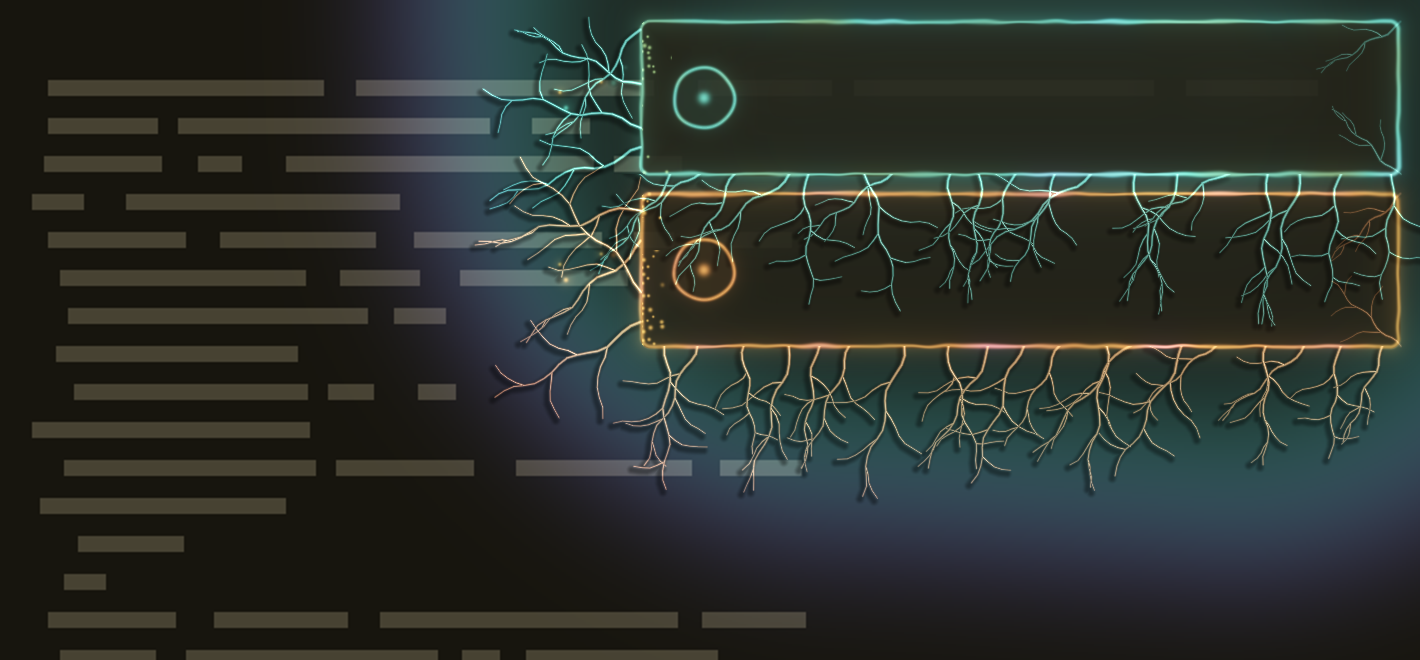
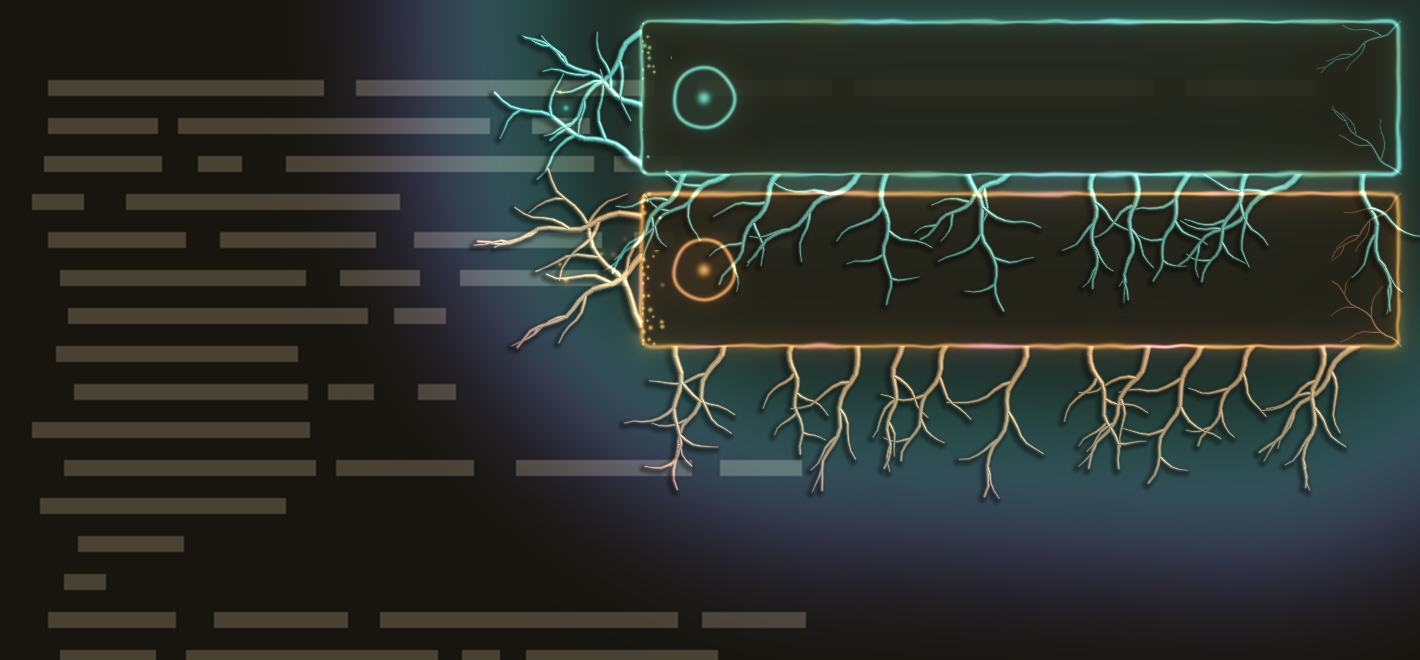
Growth: roots twice as thick, and fewer of them
Radius about 1.65 to 1.85 px at the base (was 0.8 to 0.9), tapering to 45%; the faint veins inside the card keep their thin radius so they
do not run over the text. One root per 24 px of the card's height on the left (was 18) and per 28 px of its width below (was 20), to make
room. The shadow's offset follows the radius. Render only.

Claude-Session: https://claude.ai/code/session_01RawmEkvnbUV4A7X3Nfo38z

Changed region(s): [[0.3408, 0.0303, 1.0, 0.7576]]

diff --git a/docs/design/README.md b/docs/design/README.md
@@ -93,8 +93,10 @@ mock-up C, whose wavy outline and ragged strip read as glitches:
   settled on a trunk of 65% exponential (rate 3.5) and 35% gentle ease-out, with shoots starting from 16% of the life in steps of 16% and
   a more linear ease (power 1.5): gains of 34, 25, 13, 11, 8, 6 and 2 points per second (cumulative 34, 59, 72, 83, 91, 97 and 100).
   Fainter veins grow across the card from its right corners.
-  **Roots as lit 3D tubes** (after 0.5.0, `growth-roots-3d.png`): each segment is a round tube with a soft edge, a little thicker than the
-  first lines (radius about 0.8 to 0.9 px at the base, tapering to about half), shaded as a cylinder lit from the top right (the
+  **Roots as lit 3D tubes** (after 0.5.0, `growth-roots-3d.png`): each segment is a round tube with a soft edge, about twice as thick as the
+  first lines (radius about 1.65 to 1.85 px at the base, tapering to 45% of that; the faint veins inside the card stay thin, so they
+  do not run over the text), and thinned out to make room (about one root per 24 px of the card's height on the left, one per 28 px of
+  its width below), shaded as a cylinder lit from the top right (the
   direction of the card's own light): a diffuse term, a soft specular highlight and a darker side away from the light, and a soft
   shadow they cast down and to the left (a little alpha, the only part that darkens; the roots inside the card cast none).
 - **No countdown line** (removed after 0.5.0, at the user's request): the roots grow over the toast's whole life and are the timer.

diff --git a/AGENTS.md b/AGENTS.md
@@ -312,7 +312,7 @@ uniform-parity contract); `curve()` is replaced by `tube()` (a round tube with a
 specular, and a shadow offset down-left), `over()` and `shoot()`; `vein()` returns `vec4(cover, diffuse, specular, shadow)`; the output now
 has **alpha > 0 for the shadow only** (premultiplied: light in rgb, darkening in alpha), so **`test/growth-test.sh`'s "alpha is 0 everywhere"
 check and its countdown checks are stale, and the roots test's thresholds are untested on thicker roots.** Committed without running the tests
-at the user's request; fix them before releasing. The root radius is `0.60 + 0.16 * scale` px at the base.
+at the user's request; fix them before releasing. The root radius is `(0.60 + 0.16 * scale) * thick` px at the base: `thick` is 2 for the roots (the user asked for "at least twice as thick" after a first, too thin, attempt) and 1 for the faint veins inside the card. Roots are one per 24 px of the card's height on the left (3 to 6) and one per 28 px of its width below (5 to 18); the shadow offset grows with the radius.
 
 ## Conventions
 

diff --git a/docs/runbooks/live-checklist.md b/docs/runbooks/live-checklist.md
@@ -195,7 +195,7 @@ flipping between the two with the same notifications. The design is `docs/design
 - [ ] the icon ring is very slightly irregular (it should read as organic, not as a lumpy circle)
 - [ ] **there is no countdown line** with this look: the bottom border is a plain border, and the roots are the timer (they are
       still growing until just before the toast goes)
-- [ ] the roots are **a little thicker** and look **3D**: round tubes with a lit side towards the top right, a highlight and a soft shadow
+- [ ] the roots are **about twice as thick** as before (fewer of them: about one per 24 px of height on the left, 28 px of width below) and look **3D**: round tubes with a lit side towards the top right, a highlight and a soft shadow
       down and to the left on the card and the wallpaper (say if they are too thick, the shading is too strong or too weak, or the
       shadow looks dirty)
 - [ ] a **critical** toast is ember (amber to rose), a **low** one a dark moss
